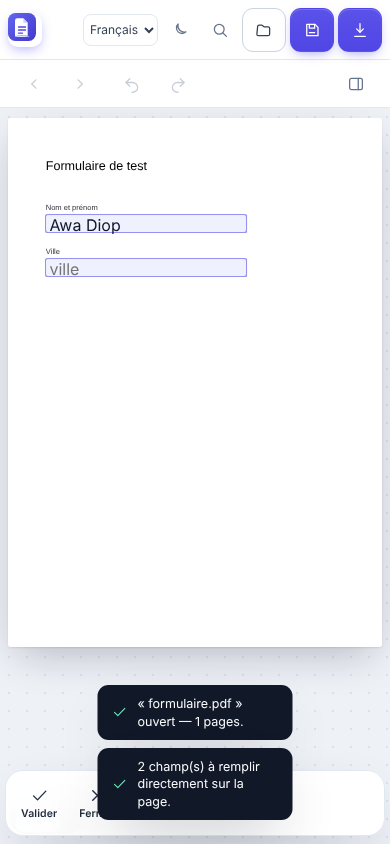
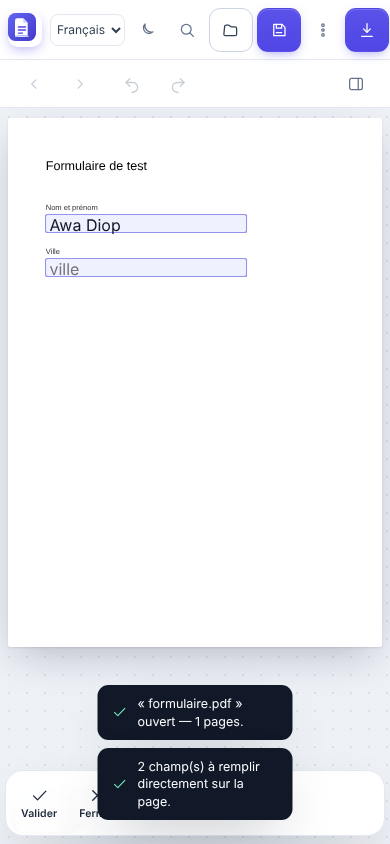
Menu ⋮ du document : enregistrer, exporter, partager, imprimer, compresser, convertir, mot de passe, rechercher
Claude-Session: https://claude.ai/code/session_01XLHuCdA6PizWJ9BPTvHzcC

Changed region(s): [[0.5231, 0.0, 1.0, 0.0924], [0.1231, 0.0308, 0.4, 0.0616], [0.4615, 0.0308, 0.4923, 0.0616]]

diff --git a/src/main.js b/src/main.js
@@ -136,6 +136,7 @@ const els = {
   fmtSize: $('fmtSize'),
   fmtFont: $('fmtFont'),
   docDock: $('docDock'),
+  btnDocMenu: $('btnDocMenu'),
   fmtColorBtn: $('fmtColorBtn'),
   fmtSwatch: $('fmtSwatch'),
   fmtColorPop: $('fmtColorPop'),
@@ -790,6 +791,126 @@ function bindDock() {
   updateDock();
 }
 
+/* ───────── Menu ⋮ du document ───────── */
+
+/** Génère le PDF courant (modifications, OCR, annotations) sans le télécharger. */
+async function buildCurrentPdf() {
+  closeActive();
+  const { exportPdf } = await import('./exporter.js');
+  const result = await exportPdf({
+    sourceBytes: state.bytes,
+    edits: state.edits,
+    ocrPages: collectOcrForSession(),
+    redactMode: 'stream',
+    renderPage: null,
+    objects: markup.objects,
+  });
+  return new Blob([result.bytes], { type: 'application/pdf' });
+}
+
+function docFileName(suffix = '') {
+  const base = U.baseName(state.fileName || 'document.pdf');
+  return `${base}${suffix}.pdf`;
+}
+
+async function shareCurrentPdf() {
+  pushLoading(t('save.working'));
+  try {
+    const blob = await buildCurrentPdf();
+    popLoading();
+    await shareBlob(blob, docFileName('-modifie'));
+  } catch (err) {
+    console.error(err);
+    popLoading();
+    toast(t('save.error'), 'error');
+  }
+}
+
+async function printCurrentPdf() {
+  pushLoading(t('save.working'));
+  let url = null;
+  try {
+    const blob = await buildCurrentPdf();
+    url = URL.createObjectURL(blob);
+    popLoading();
+    const frame = document.createElement('iframe');
+    frame.style.cssText = 'position:fixed;right:0;bottom:0;width:0;height:0;border:0;opacity:0';
+    frame.src = url;
+    let done = false;
+    const fallback = () => {
+      if (done) return;
+      done = true;
+      toast(t('menu.printFail'), 'info', { duration: 5000 });
+      window.open(url, '_blank', 'noopener');
+    };
+    frame.addEventListener('load', () => {
+      try {
+        frame.contentWindow.focus();
+        frame.contentWindow.print();
+        done = true;
+      } catch {
+        fallback();
+      }
+    });
+    document.body.appendChild(frame);
+    // Certains navigateurs mobiles n'affichent pas le PDF dans un cadre caché.
+    setTimeout(fallback, 4000);
+    setTimeout(() => {
+      frame.remove();
+      URL.revokeObjectURL(url);
+    }, 120000);
+  } catch (err) {
+    console.error(err);
+    popLoading();
+    toast(t('save.error'), 'error');
+  }
+}
+
+function openDocMenu() {
+  if (!state.engine) return;
+  const items = [
+    { id: 'save', icon: 'save', title: 'menu.save', hint: 'menu.saveHint' },
+    { id: 'export', icon: 'download', title: 'menu.export', hint: 'menu.exportHint' },
+    { id: 'share', icon: 'share', title: 'menu.share', hint: 'menu.shareHint' },
+    { id: 'print', icon: 'printer', title: 'menu.print', hint: 'menu.printHint' },
+    { id: 'compress', icon: 'compress', title: 'menu.compress', hint: 'menu.compressHint' },
+    { id: 'convert', icon: 'convert', title: 'menu.convert', hint: 'menu.convertHint' },
+    { id: 'password', icon: 'lock', title: 'menu.password', hint: 'menu.passwordHint' },
+    { id: 'search', icon: 'search', title: 'menu.search', hint: 'menu.searchHint' },
+  ];
+  const rows = items
+    .map(
+      (it) => `<button class="sheet-row" data-doc-menu="${it.id}" type="button">
+        <span class="sheet-row-icon">${icon(it.icon, 19)}</span>
+        <span class="sheet-row-text"><strong>${t(it.title)}</strong><span>${t(it.hint)}</span></span>
+        ${icon('chevronRight', 16)}
+      </button>`
+    )
+    .join('');
+  const body = openSheet({
+    title: U.baseName(state.fileName || t('menu.title')),
+    html: `<div class="sheet-list">${rows}</div>`,
+    className: 'doc-menu',
+  });
+  body?.querySelectorAll('[data-doc-menu]').forEach((btn) => {
+    btn.addEventListener('click', () => {
+      const id = btn.dataset.docMenu;
+      closeSheet();
+      // Laisse la feuille se fermer avant d'ouvrir l'action suivante.
+      setTimeout(() => {
+        if (id === 'save') handleSave();
+        else if (id === 'export') els.btnExport.click();
+        else if (id === 'share') shareCurrentPdf();
+        else if (id === 'print') printCurrentPdf();
+        else if (id === 'compress') openCompressTool();
+        else if (id === 'convert') openConvertTool();
+        else if (id === 'password') openProtectTool();
+        else if (id === 'search') openSearch();
+      }, 260);
+    });
+  });
+}
+
 const fontsRendered = new Set();
 
 /** Remplit la liste des polices : polices de base, puis le catalogue par famille. */
@@ -1155,6 +1276,7 @@ function bindFormatbar() {
 
   populateFontSelect();
   bindDock();
+  els.btnDocMenu?.addEventListener('click', openDocMenu);
   els.fmtFont?.addEventListener('change', () => {
     const value = els.fmtFont.value;
     // Charge la police avant de l'appliquer : l'aperçu et les mesures doivent
@@ -2296,6 +2418,7 @@ function updateExportUi() {
   els.btnExport.disabled = !state.engine;
   if (els.btnSave) els.btnSave.disabled = !state.engine;
   els.btnSearch.disabled = !state.engine;
+  if (els.btnDocMenu) els.btnDocMenu.disabled = !state.engine;
 }
 
 /* ─────────────────────────── Recherche ─────────────────────────── */

diff --git a/src/i18n.js b/src/i18n.js
@@ -309,6 +309,25 @@ const DICT = {
     'dock.ocr': "OCR",
     'dock.more': "Plus",
     'dock.editHint': "Touchez un texte du document pour le modifier.",
+    'top.more': "Plus d’actions",
+    'menu.title': "Document",
+    'menu.save': "Enregistrer",
+    'menu.saveHint': "Télécharge le PDF modifié",
+    'menu.export': "Exporter…",
+    'menu.exportHint': "PDF, OCR, texte, images",
+    'menu.share': "Partager",
+    'menu.shareHint': "Envoyer le PDF modifié",
+    'menu.print': "Imprimer",
+    'menu.printHint': "Avec vos modifications",
+    'menu.compress': "Compresser un PDF",
+    'menu.compressHint': "Réduire la taille du fichier",
+    'menu.convert': "Convertir",
+    'menu.convertHint': "Images, texte",
+    'menu.password': "Définir le mot de passe",
+    'menu.passwordHint': "Filigrane et protection",
+    'menu.search': "Rechercher",
+    'menu.searchHint': "Dans tout le document",
+    'menu.printFail': "Impression indisponible ici : le PDF s’ouvre dans un nouvel onglet.",
     'files.reset': "Réinitialiser le stockage",
     'files.resetText': "Tous les documents enregistrés dans ce navigateur seront supprimés. Cette action est irréversible. Continuer ?",
     'files.wrongFile': "Ce fichier ne correspond pas au document enregistré. Vos modifications sont conservées : choisissez le PDF d’origine.",
@@ -740,6 +759,25 @@ const DICT = {
     'dock.ocr': "OCR",
     'dock.more': "More",
     'dock.editHint': "Tap any text in the document to edit it.",
+    'top.more': "More actions",
+    'menu.title': "Document",
+    'menu.save': "Save",
+    'menu.saveHint': "Download the edited PDF",
+    'menu.export': "Export…",
+    'menu.exportHint': "PDF, OCR, text, images",
+    'menu.share': "Share",
+    'menu.shareHint': "Send the edited PDF",
+    'menu.print': "Print",
+    'menu.printHint': "With your changes",
+    'menu.compress': "Compress PDF",
+    'menu.compressHint': "Reduce the file size",
+    'menu.convert': "Convert",
+    'menu.convertHint': "Images, text",
+    'menu.password': "Set password",
+    'menu.passwordHint': "Watermark and protection",
+    'menu.search': "Search",
+    'menu.searchHint': "In the whole document",
+    'menu.printFail': "Printing is unavailable here: the PDF opens in a new tab.",
     'files.reset': "Reset storage",
     'files.resetText': "All documents saved in this browser will be deleted. This cannot be undone. Continue?",
     'files.wrongFile': "This file does not match the saved document. Your edits are kept: pick the original PDF.",
@@ -1171,6 +1209,25 @@ const DICT = {
     'dock.ocr': "التعرف",
     'dock.more': "المزيد",
     'dock.editHint': "اضغط على أي نص في المستند لتعديله.",
+    'top.more': "المزيد من الإجراءات",
+    'menu.title': "المستند",
+    'menu.save': "حفظ",
+    'menu.saveHint': "تنزيل ملف PDF المعدّل",
+    'menu.export': "تصدير…",
+    'menu.exportHint': "PDF والنص والصور",
+    'menu.share': "مشاركة",
+    'menu.shareHint': "إرسال الملف المعدّل",
+    'menu.print': "طباعة",
+    'menu.printHint': "مع تعديلاتك",
+    'menu.compress': "ضغط PDF",
+    'menu.compressHint': "تقليل حجم الملف",
+    'menu.convert': "تحويل",
+    'menu.convertHint': "صور ونص",
+    'menu.password': "تعيين كلمة مرور",
+    'menu.passwordHint': "علامة مائية وحماية",
+    'menu.search': "بحث",
+    'menu.searchHint': "في المستند كله",
+    'menu.printFail': "الطباعة غير متاحة هنا: سيُفتح الملف في تبويب جديد.",
     'files.reset': "إعادة تعيين التخزين",
     'files.resetText': "سيتم حذف جميع المستندات المحفوظة في هذا المتصفح. لا يمكن التراجع. هل تريد المتابعة؟",
     'files.wrongFile': "هذا الملف لا يطابق المستند المحفوظ. تعديلاتك محفوظة: اختر ملف PDF الأصلي.",

diff --git a/tests/e2e/dock.spec.js b/tests/e2e/dock.spec.js
@@ -54,4 +54,26 @@ test.describe('Barre d’outils du document', () => {
     await page.locator('#docDock [data-dock=highlight]').tap();
     await expect(page.locator('body')).toHaveClass(/annotating/);
   });
+
+  test('menu ⋮ : actions du document, partage et compression', async ({ page }) => {
+    await page.addInitScript(() => {
+      navigator.canShare = () => true;
+      navigator.share = async (data) => {
+        window.__shared = { name: data.files[0].name, type: data.files[0].type, size: data.files[0].size };
+      };
+    });
+    await openDemo(page);
+    await page.locator('#btnDocMenu').tap();
+    await expect(page.locator('#sheet [data-doc-menu]')).toHaveCount(8);
+
+    await page.locator('[data-doc-menu=share]').tap();
+    await expect.poll(() => page.evaluate(() => window.__shared?.name)).toMatch(/-modifie\.pdf$/);
+    const shared = await page.evaluate(() => window.__shared);
+    expect(shared.type).toBe('application/pdf');
+    expect(shared.size).toBeGreaterThan(1000);
+
+    await page.locator('#btnDocMenu').tap();
+    await page.locator('[data-doc-menu=compress]').tap();
+    await expect(page.locator('#sheetTitle')).toContainText(/ompress/i);
+  });
 });

diff --git a/src/icons.js b/src/icons.js
@@ -53,6 +53,8 @@ const P = {
   signature: '<path d="M4 17c3 0 3.5-9 6-9s1 7 3.5 7 2.5-6 4-6 1.5 3 2.5 3"/><path d="M4 20.5h16"/>',
   stamp: '<path d="M9 4h6a2 2 0 0 1 2 2v3l-1.5 2h-7L7 9V6a2 2 0 0 1 2-2z"/><path d="M7 13h10v3.5H7z"/><path d="M5 19.5h14"/>',
   layers: '<path d="m12 3.5 8.5 4.5L12 12.5 3.5 8z"/><path d="m4 12 8 4.2 8-4.2M4 16l8 4.2 8-4.2"/>',
+  more: '<circle cx="12" cy="5.5" r="1.6"/><circle cx="12" cy="12" r="1.6"/><circle cx="12" cy="18.5" r="1.6"/>',
+  printer: '<path d="M7 9V4.5h10V9"/><rect x="4" y="9" width="16" height="8" rx="2"/><path d="M7.5 14h9v6h-9z"/>',
   lock: '<rect x="5" y="10.5" width="14" height="10" rx="2.4"/><path d="M8 10.5V8a4 4 0 0 1 8 0v2.5"/><path d="M12 14.5v2.5"/>',
   compress: '<path d="M12 3.5v6M9.5 7l2.5 2.5L14.5 7"/><path d="M12 20.5v-6M9.5 17l2.5-2.5 2.5 2.5"/><path d="M4 12h16"/>',
   convert: '<path d="M4.5 8.5h12l-3-3M19.5 15.5h-12l3 3"/>',

diff --git a/index.html b/index.html
@@ -56,6 +56,7 @@
           <span data-icon="save"></span><span data-i18n="top.save">Enregistrer</span>
         </button>
 
+        <button class="icon-btn" id="btnDocMenu" title="Plus d’actions" aria-label="Plus d’actions" data-i18n-title="top.more" data-icon="more" disabled></button>
         <div class="export-wrap">
           <button class="btn primary" id="btnExport" disabled>
             <span data-icon="download"></span><span data-i18n="top.export">Exporter</span><span class="caret" data-icon="chevronDown"></span>

diff --git a/docs/verifications-v2.5.md b/docs/verifications-v2.5.md
@@ -196,3 +196,10 @@ assertion en échec. Chaque test concerné repasse seul. La CI
 - Le bouton flottant « + Texte » disparaît du document (doublon).
 - Vérifié : 103 tests unitaires et 58 tests Chromium/Samsung (profil 390 px : Signer et Tampon visibles sans défiler).
 - Non fait (étapes suivantes) : menu du document façon Adobe (⋮ : Exporter, Compresser, Mot de passe, Imprimer), signatures enregistrées en un geste, reconnaissance automatique de la police d'un scan.
+
+## Menu ⋮ du document (v2.6, étape 2)
+
+- Bouton ⋮ dans la barre du haut : Enregistrer, Exporter…, Partager, Imprimer, Compresser, Convertir, Définir le mot de passe, Rechercher.
+- Partager et Imprimer génèrent le PDF avec les modifications, l'OCR et les annotations. Partage vérifié (fichier PDF « -modifie.pdf » transmis à l'API de partage). Impression : via un cadre caché, avec repli (PDF ouvert dans un nouvel onglet) ; **non testée sur un vrai téléphone**.
+- Boutons de la barre compacte agrandis (≥ 48 px).
+- 105 tests unitaires, 60 tests Chromium/Samsung.
